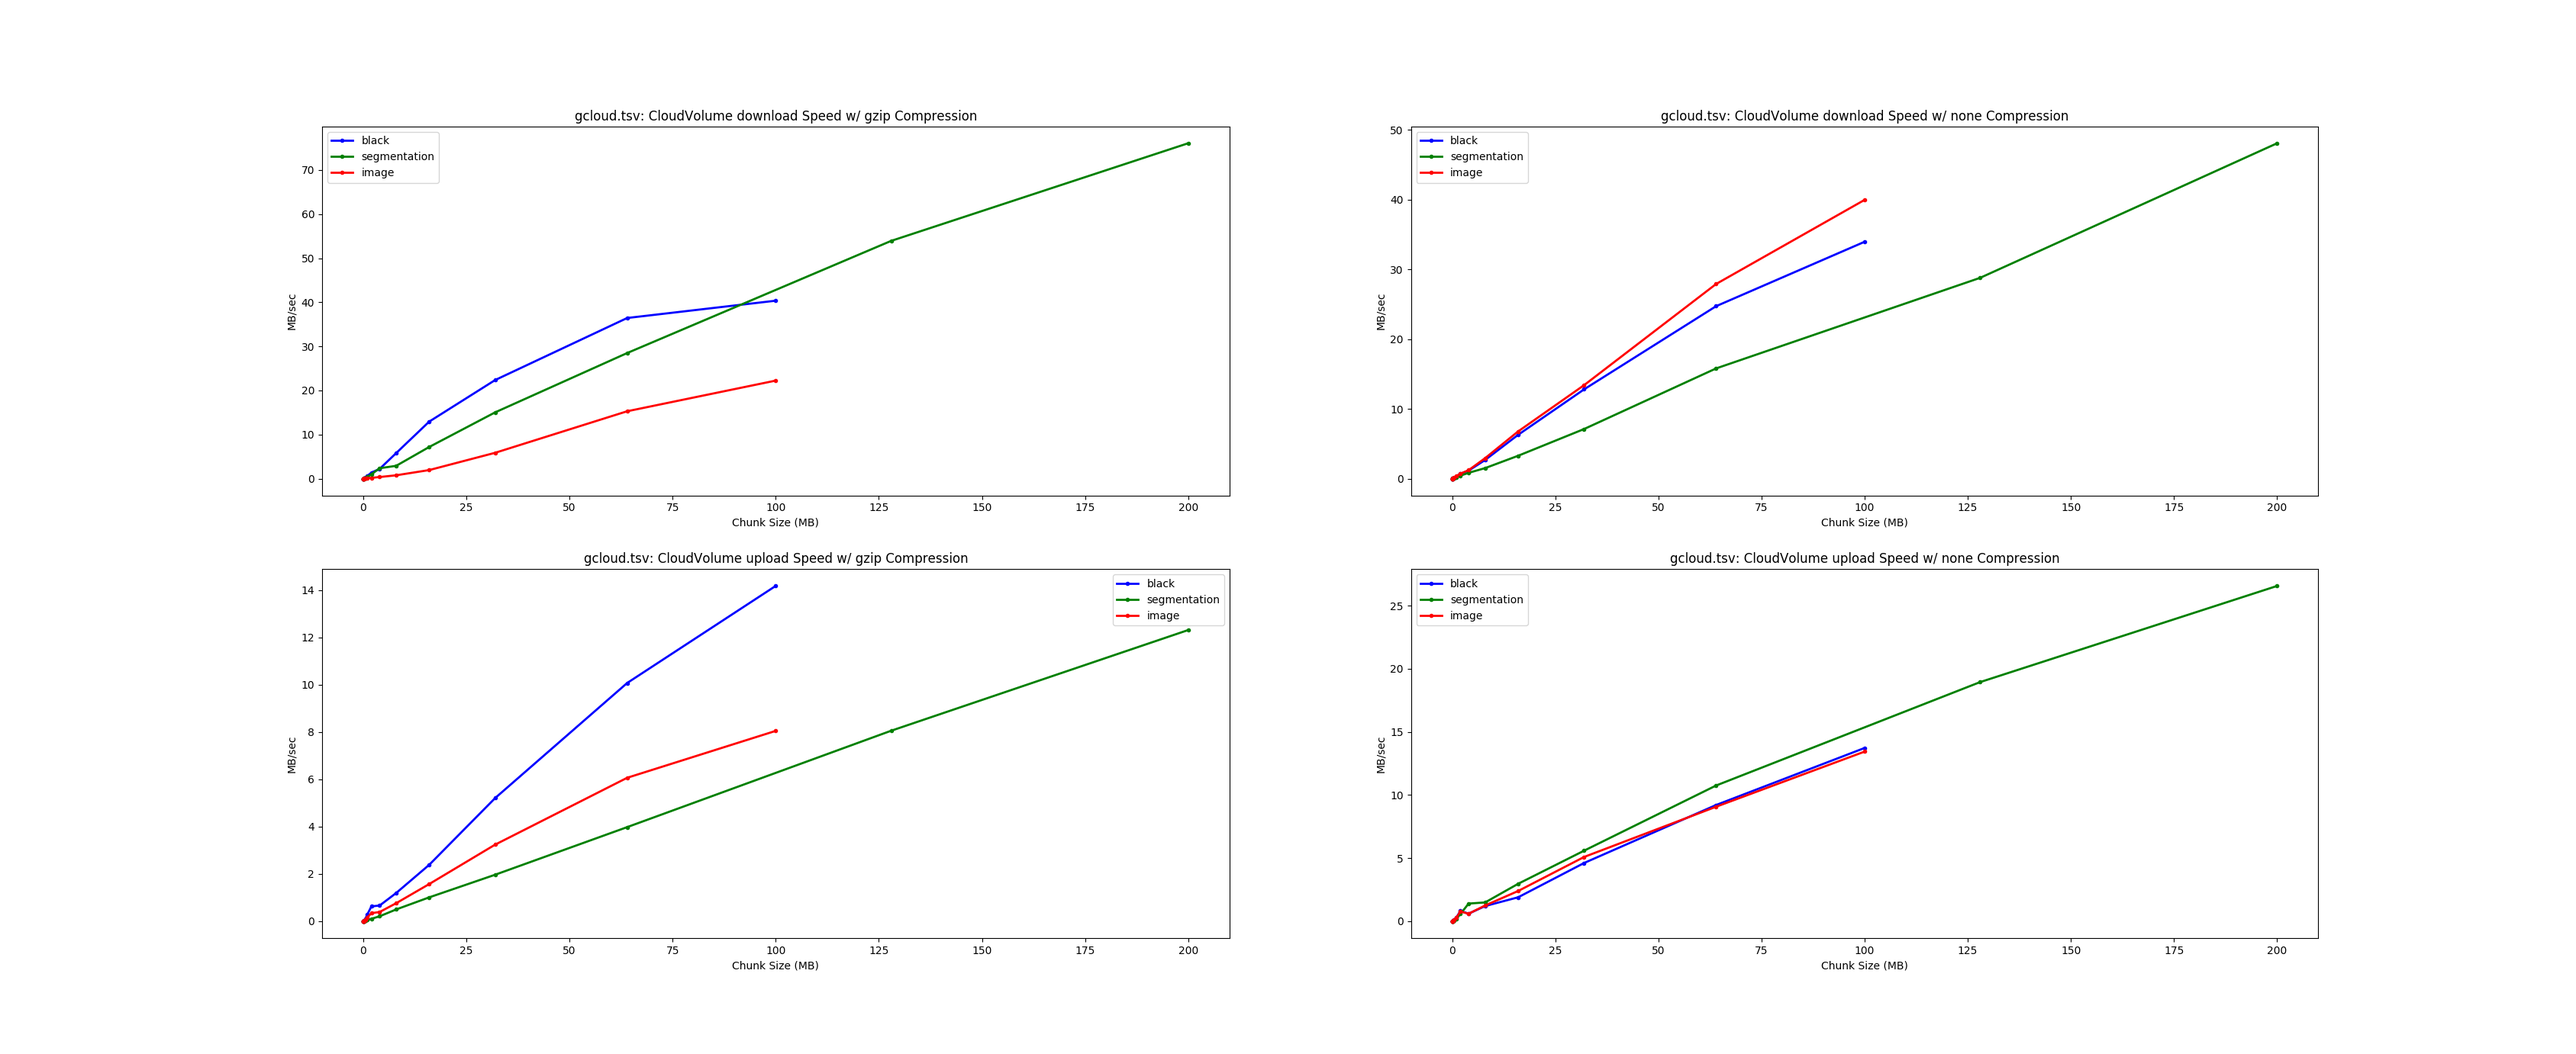
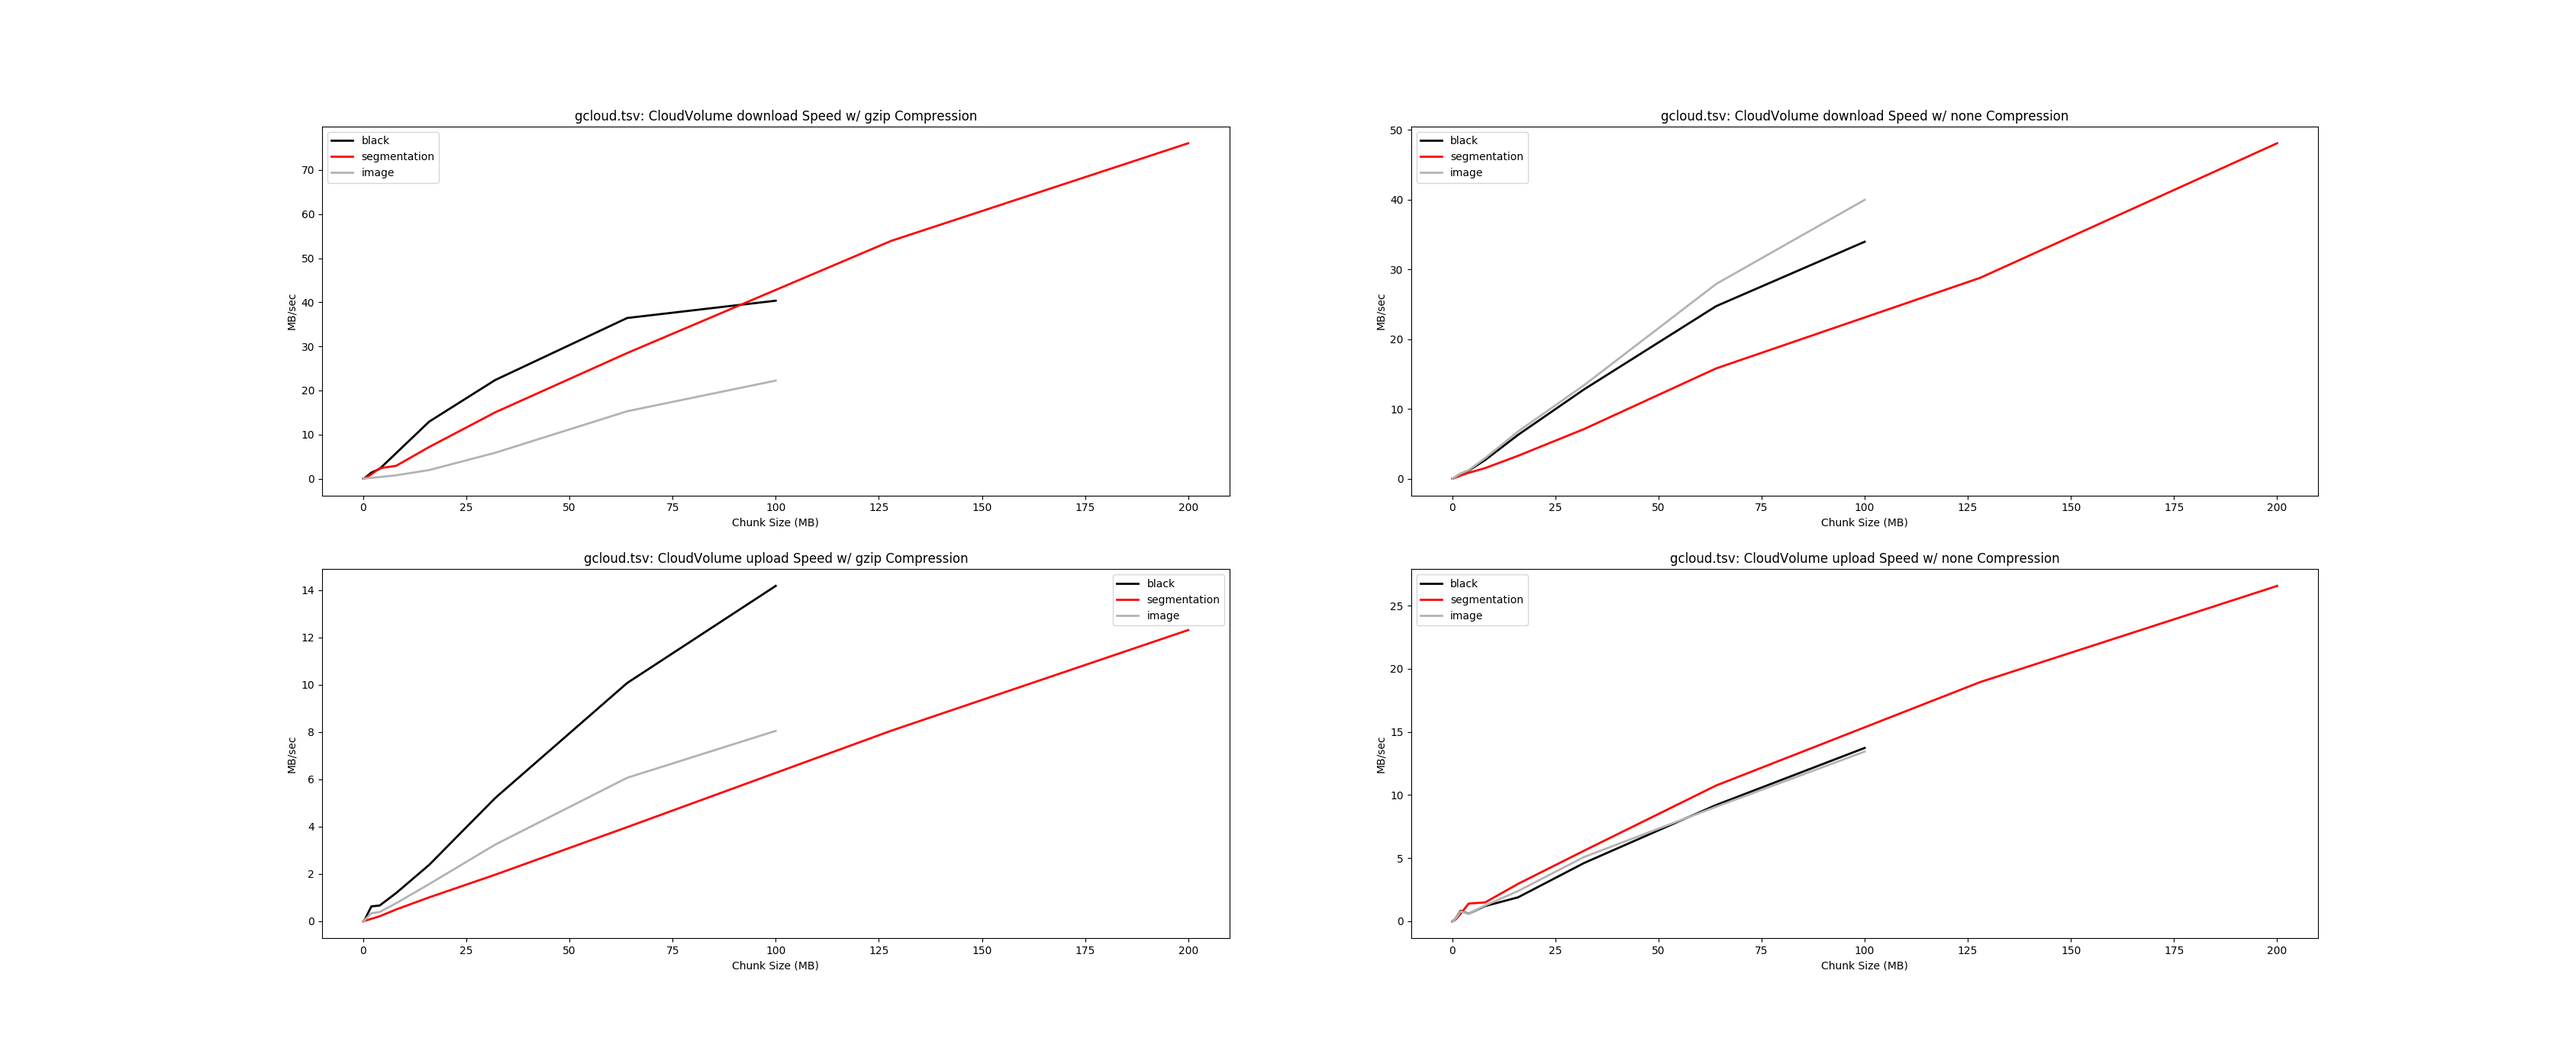
feat: more memorable colors for plots

diff --git a/benchmarks/plot.py b/benchmarks/plot.py
@@ -24,9 +24,9 @@ for row in rows:
 
 
 styles = {
-	'black': 'b.',
-	'image': 'r.',
-	'segmentation': 'g.',
+	'black': 'k',
+	'image': (.7, .7, .7, 1),
+	'segmentation': 'r',
 }
 
 
@@ -51,7 +51,7 @@ for direction in sorted(stats.keys()):
 			experiment = imageexper[imgtype]
 			xdata = sorted([ float(mb) for mb in experiment.keys() ])
 			ydata = [ float(experiment[mb]) for mb in xdata ]
-			line = plt.plot(xdata, ydata, style, linestyle='-', linewidth=2)
+			line = plt.plot(xdata, ydata, color=style, linestyle='-', linewidth=2)
 			lines.append(line)
 			legends.append(imgtype)
 
